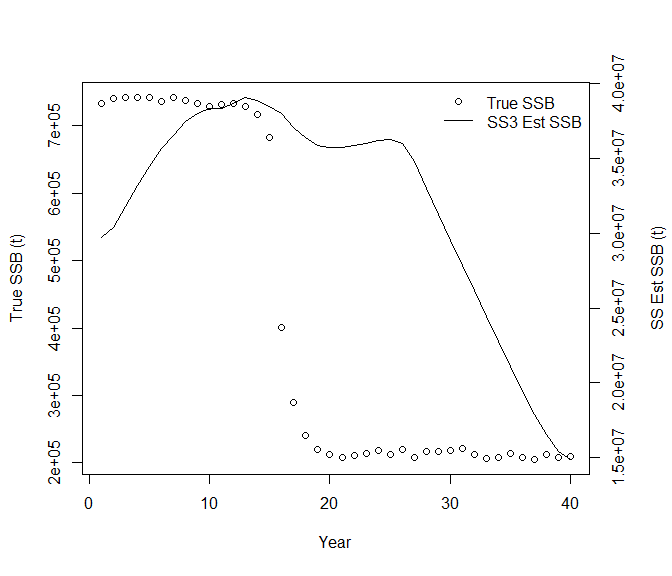
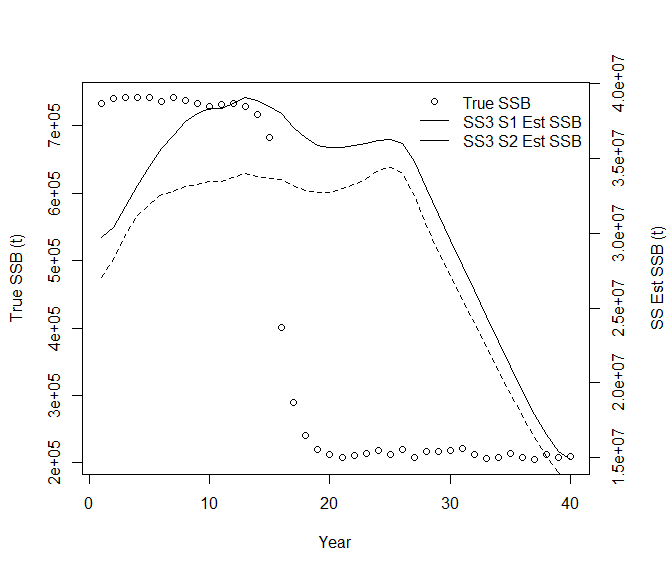
update readme: add initial equilibrium catch scenario

Changed region(s): [[0.6875, 0.1562, 0.875, 0.25]]

diff --git a/NOBA_cod_files/README.MD b/NOBA_cod_files/README.MD
@@ -5,26 +5,75 @@
 -   Put `NOBA_sacc_30` folder (Atlantisom output) in the
     `NOBA_cod_files/` folder
 
--   Modify `NOBACOD_atlantisom2SS.R` to convert Atlantisom output to SS
-    input.
+-   Modify `NOBA_cod_files/Rscript/NOBACOD_atlantisom2SS.R` to convert
+    Atlantisom output to SS input. The NOBACOD\_atlantisom2SS.R helps
+    generate SS input files for the NOBA\_cod\_files/output/atlanis2ss
+    scenario. For scenarios that use depletion-based reduction analysis
+    (NOBA\_cod\_files/output/atlantis2ss\_depletion) and consider
+    initial equilibrium catch
+    (NOBA\_cod\_files/output/atlantis2ss\_initial\_equilibrium\_catch),
+    we modified the input data following the instructions from the
+    \[Stock Synthesis User
+    Manual}(<https://nmfs-stock-synthesis.github.io/ss-documentation/SS330_User_Manual.html>).
 
-    -   We have finished conversion for all SS input files.
-    -   The new SS input files can be save in the
-        `NOBA_cod_files/output/atlantis2ss` folder.
+-   We explored five scenarios and the Stock Synthesis input files for
+    each scenario can be found under NOBA\_cod\_files/output folder
 
--   The SS model still did not converge after trying different
-    stock-recruitment models, input values of steepness and standard
-    deviation of the recruitment deviation in log space, and selectivity
-    patterns. The residuals between observed and estimated age
-    compositions were large.
+    -   atlantis2ss\_full\_data that uses fishery and survey age
+        composition data. Model had strong patterns in age composition
+        residuals and large final gradient value of 6.88787e+08. The
+        estimation model did not converge after trying different
+        stock-recruitment models, input values of steepness and standard
+        deviation of the recruitment deviation in log space, and
+        selectivity patterns.
 
--   After removing survey age composition data from the input file, SS
-    had a better final gradient value of 0.00019. The expected landings,
-    landing age compositions, and survey indices match well with the
-    true values from Atlantis. However, the estimated biomass, spawning
-    stock biomass, recruitment, and fishing mortality still did not line
-    up with the true values from Atlantis.
-    ![](README_files/figure-gfm/unnamed-chunk-1-1.png)<!-- -->![](README_files/figure-gfm/unnamed-chunk-1-2.png)<!-- -->![](README_files/figure-gfm/unnamed-chunk-1-3.png)<!-- -->![](README_files/figure-gfm/unnamed-chunk-1-4.png)<!-- -->![](README_files/figure-gfm/unnamed-chunk-1-5.png)<!-- -->![](README_files/figure-gfm/unnamed-chunk-1-6.png)<!-- -->![](README_files/figure-gfm/unnamed-chunk-1-7.png)<!-- -->![](README_files/figure-gfm/unnamed-chunk-1-8.png)<!-- -->![](README_files/figure-gfm/unnamed-chunk-1-9.png)<!-- -->![](README_files/figure-gfm/unnamed-chunk-1-10.png)<!-- -->
+    -   atlantis2ss\_surveyagecomp that uses survey age composition data
+        but not fishery age composition data. Model still did not fit
+        well.
+
+    -   atlantis2ss that uses fishery age composition data but not
+        survey age composition data. Model had a better final gradient
+        value and fit. The expected landings, landing age compositions,
+        and survey indices match well with the true values from
+        Atlantis. However, the estimated biomass, spawning stock
+        biomass, recruitment, and fishing mortality still did not line
+        up with the true values from Atlantis.
+
+    -   atlantis2ss\_depletion that adds another survey fleet that takes
+        SSB as its input. The target depletion was set to 0.5 in the end
+        year. Rick Methot thinks this feature should routinely be used
+        in all SS3 configurations. Rick’s insights:
+
+        -   The data show near constant catch for the entire time series
+            and the survey also shows little trend. So little surprise
+            that scale is hard to get right.
+        -   Given that your model has no initial equilibrium catch
+            (catch with year = -999), the SS3 model time series is
+            assuming that the population is virgin in the start year
+            (40).
+        -   Then with no trend in the index data, SS3 is getting all
+            scale info from the composition data. But the composition
+            data show 70% of the fish in the first age bin, beginning
+            in 40. So there is no contrast here either. It seems the
+            Atlantis is generating a population that is already highly
+            depleted by year 40, then SS3 starts in year 40 and is told
+            that the population is virgin going into year 40. Please see
+            thoughts from Rick and Ian Taylor from [the post on SS3
+            public
+            forums](https://vlab.noaa.gov/web/stock-synthesis/public-forums/-/message_boards/message/19365724?_com_liferay_message_boards_web_portlet_MBPortlet_orderByCol=modified-date&_com_liferay_message_boards_web_portlet_MBPortlet_scStart=0&_com_liferay_message_boards_web_portlet_MBPortlet_delta=50&_com_liferay_message_boards_web_portlet_MBPortlet_orderByType=desc&_com_liferay_message_boards_web_portlet_MBPortlet_index=0&_com_liferay_message_boards_web_portlet_MBPortlet_scEnd=50&_com_liferay_message_boards_web_portlet_MBPortlet_resetCur=false&_com_liferay_message_boards_web_portlet_MBPortlet_categoryId=971356&_com_liferay_message_boards_web_portlet_MBPortlet_cur1=1).
+
+    -   atlantis2ss\_initial\_equilibrium\_catch that has initial
+        equilibrium catches in the data.ss and a short parameter setup
+        line (fishing mortality) for initial equilibrium catches in the
+        control.ss.
+
+The figures below show comparisons among Atlantis true values, output
+values from the atlantis2ss\_depletion scenario S1, and output values
+from the atlantis2ss\_initial\_equilibrium\_catch scenario S2 (work in
+progress). Will make a pull request and move everything back to Sarah’s
+repository after talking to Cecilie.
+
+![](README_files/figure-gfm/unnamed-chunk-1-1.png)<!-- -->![](README_files/figure-gfm/unnamed-chunk-1-2.png)<!-- -->![](README_files/figure-gfm/unnamed-chunk-1-3.png)<!-- -->![](README_files/figure-gfm/unnamed-chunk-1-4.png)<!-- -->![](README_files/figure-gfm/unnamed-chunk-1-5.png)<!-- -->![](README_files/figure-gfm/unnamed-chunk-1-6.png)<!-- -->![](README_files/figure-gfm/unnamed-chunk-1-7.png)<!-- -->![](README_files/figure-gfm/unnamed-chunk-1-8.png)<!-- -->![](README_files/figure-gfm/unnamed-chunk-1-9.png)<!-- -->![](README_files/figure-gfm/unnamed-chunk-1-10.png)<!-- -->
 
 ### NOBA Cod SAM2SS conversion
 
